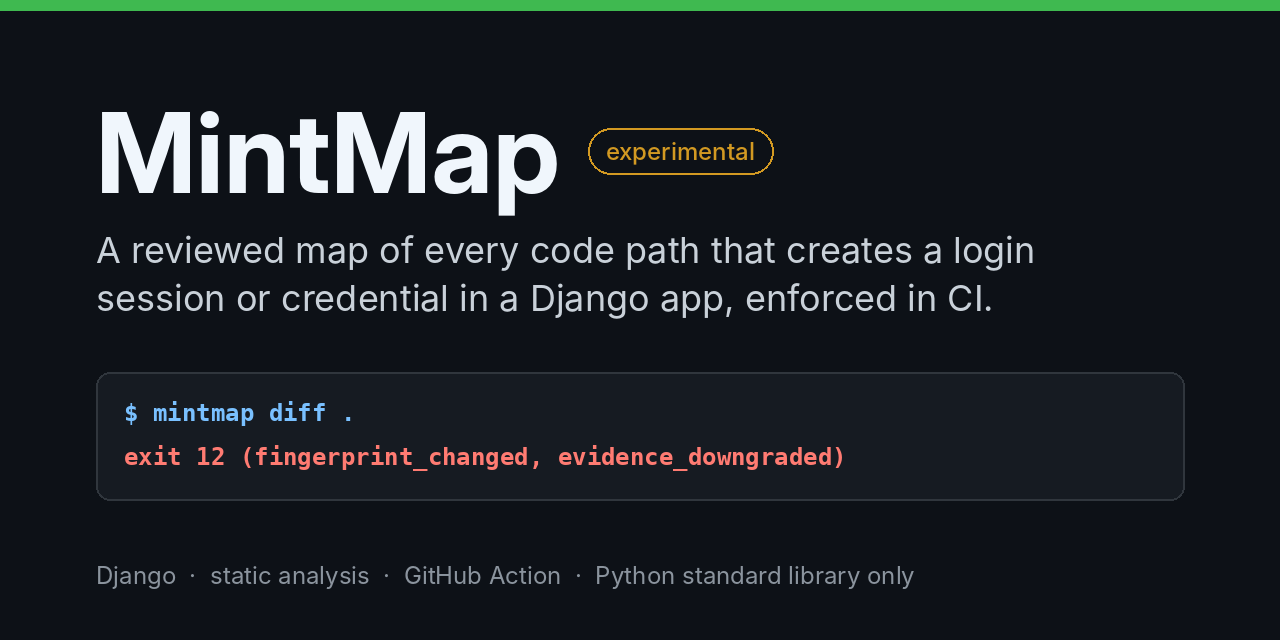
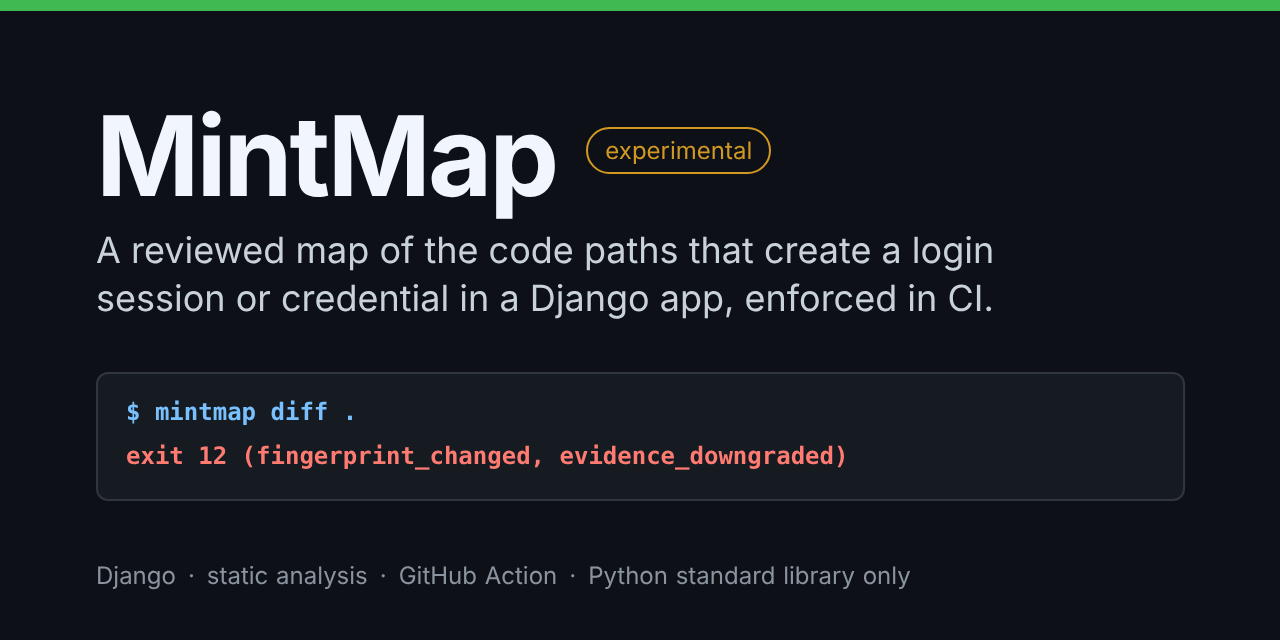
Re-render the social preview with the corrected subtitle, and add its script
The image still said "every code path". scripts/render_social_preview.py
draws the same card (1280x640, same layout and colours) as HTML and renders it
with headless Chromium through Playwright. The subtitle is read from the
pyproject description, so the two cannot drift apart. Playwright is a
maintainer-only tool; MintMap itself stays standard library only.

diff --git a/scripts/render_social_preview.py b/scripts/render_social_preview.py
@@ -1,0 +1,93 @@
+"""Render docs/assets/social-preview.png (1280x640), the image for the repository's social preview.
+
+    python scripts/render_social_preview.py              render the PNG with headless Chromium (Playwright)
+    python scripts/render_social_preview.py --html F     only write the HTML card to F (render it any other way)
+
+The subtitle is the `description` in pyproject.toml, so the card says what the package metadata says. The command
+and exit line are the real last lines of `scripts/demo.sh`. Rendering needs Node.js with the `playwright` package
+and its Chromium (`npm install playwright && npx playwright install chromium`), and the fonts Inter and DejaVu Sans
+Mono; other fonts change the look but not the text. This is a maintainer tool: MintMap itself stays standard
+library only. After rendering, upload the PNG in the repository settings (Settings > General > Social preview);
+GitHub does not read it from the repository.
+"""
+import html
+import os
+import subprocess
+import sys
+import tempfile
+import tomllib
+
+ROOT = os.path.dirname(os.path.dirname(os.path.abspath(__file__)))
+OUT = os.path.join(ROOT, "docs", "assets", "social-preview.png")
+WIDTH, HEIGHT = 1280, 640
+
+TEMPLATE = """<!doctype html>
+<html><head><meta charset="utf-8"><style>
+  html, body {{ margin: 0; width: {width}px; height: {height}px; overflow: hidden; background: #0d1117; }}
+  body {{ position: relative; font-family: Inter, "DejaVu Sans", sans-serif; color: #c9d1d9; }}
+  .bar {{ position: absolute; left: 0; top: 0; width: 100%; height: 11px; background: #3fb950; }}
+  .title {{ position: absolute; left: 96px; top: 92px; display: flex; align-items: center; gap: 30px; }}
+  h1 {{ margin: 0; font-size: 111px; font-weight: 700; letter-spacing: -3px; color: #f0f6fc; line-height: 1.15; }}
+  .badge {{ font-size: 24px; color: #d29922; border: 2px solid #d29922; border-radius: 24px; padding: 7px 17px;
+            margin-top: -10px; }}
+  .subtitle {{ position: absolute; left: 96px; top: 226px; width: 1010px; font-size: 36px; line-height: 48px; }}
+  .code {{ position: absolute; left: 96px; top: 372px; width: 1029px; height: 91px; padding: 16px 28px 18px;
+           background: #161b22; border: 2px solid #30363d; border-radius: 12px;
+           font-family: "DejaVu Sans Mono", Menlo, Consolas, monospace; font-weight: 700; font-size: 24px;
+           line-height: 44px; }}
+  .cmd {{ color: #79c0ff; }}
+  .bad {{ color: #ff7b72; }}
+  .footer {{ position: absolute; left: 96px; top: 561px; font-size: 24px; color: #8b949e; word-spacing: 1px; }}
+  .dot {{ padding: 0 12px; }}
+</style></head><body>
+  <div class="bar"></div>
+  <div class="title"><h1>MintMap</h1><span class="badge">experimental</span></div>
+  <div class="subtitle">{subtitle}</div>
+  <div class="code"><div class="cmd">$ mintmap diff .</div>
+    <div class="bad">exit 12 (fingerprint_changed, evidence_downgraded)</div></div>
+  <div class="footer">Django<span class="dot">&middot;</span>static analysis<span class="dot">&middot;</span>GitHub
+    Action<span class="dot">&middot;</span>Python standard library only</div>
+</body></html>
+"""
+
+SHOT = """
+const { chromium } = require('playwright');
+(async () => {
+  const browser = await chromium.launch();
+  const page = await browser.newPage({ viewport: { width: %d, height: %d }, deviceScaleFactor: 1 });
+  await page.goto('file://' + process.argv[1]);
+  await page.evaluate(() => document.fonts.ready);
+  await page.screenshot({ path: process.argv[2], omitBackground: false });
+  await browser.close();
+})().catch((err) => { console.error(err); process.exit(1); });
+"""
+
+
+def card() -> str:
+    with open(os.path.join(ROOT, "pyproject.toml"), "rb") as fh:
+        subtitle = tomllib.load(fh)["project"]["description"]
+    return TEMPLATE.format(width=WIDTH, height=HEIGHT, subtitle=html.escape(subtitle))
+
+
+def main(argv) -> int:
+    if argv[:1] == ["--html"] and len(argv) == 2:
+        with open(argv[1], "w", encoding="utf-8") as fh:
+            fh.write(card())
+        return 0
+    if argv:
+        sys.stderr.write(__doc__)
+        return 2
+    with tempfile.TemporaryDirectory() as tmp:
+        page = os.path.join(tmp, "card.html")
+        with open(page, "w", encoding="utf-8") as fh:
+            fh.write(card())
+        run = subprocess.run(["node", "-e", SHOT % (WIDTH, HEIGHT), "--", page, OUT], cwd=tmp)
+    if run.returncode != 0:
+        sys.stderr.write("render_social_preview: rendering failed (needs Node.js with playwright and Chromium)\n")
+        return 1
+    print(f"wrote {os.path.relpath(OUT, ROOT)}")
+    return 0
+
+
+if __name__ == "__main__":
+    sys.exit(main(sys.argv[1:]))
